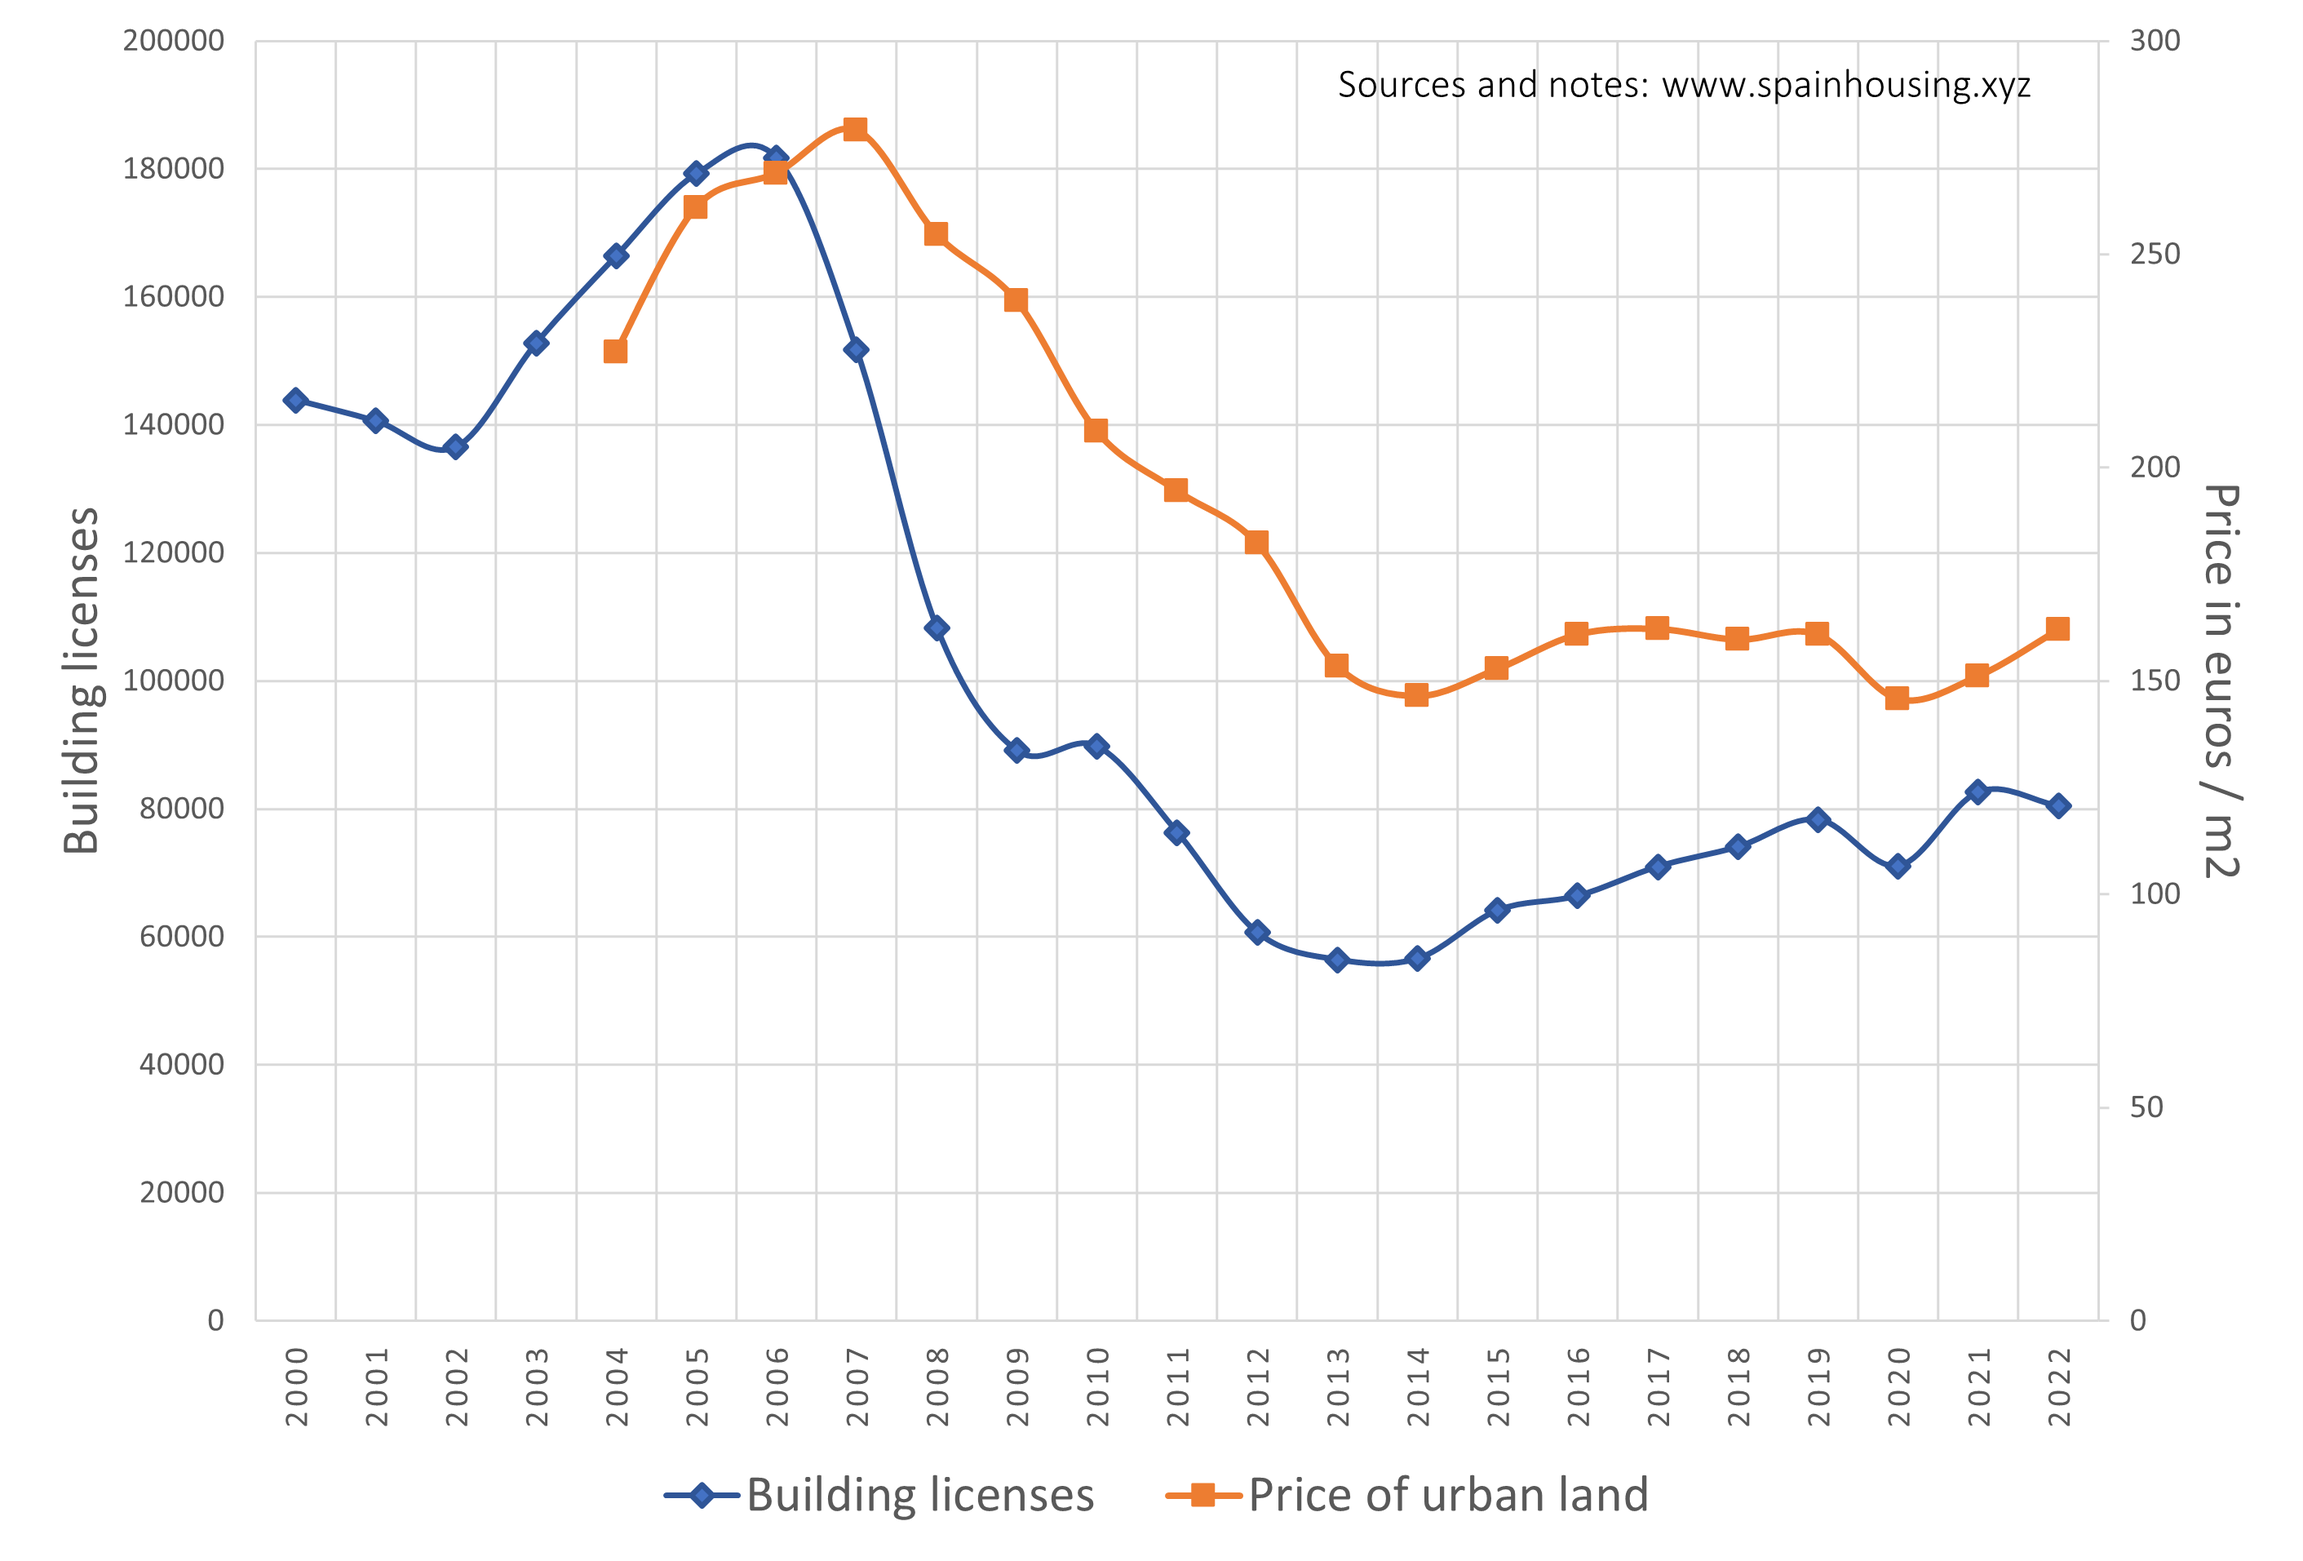
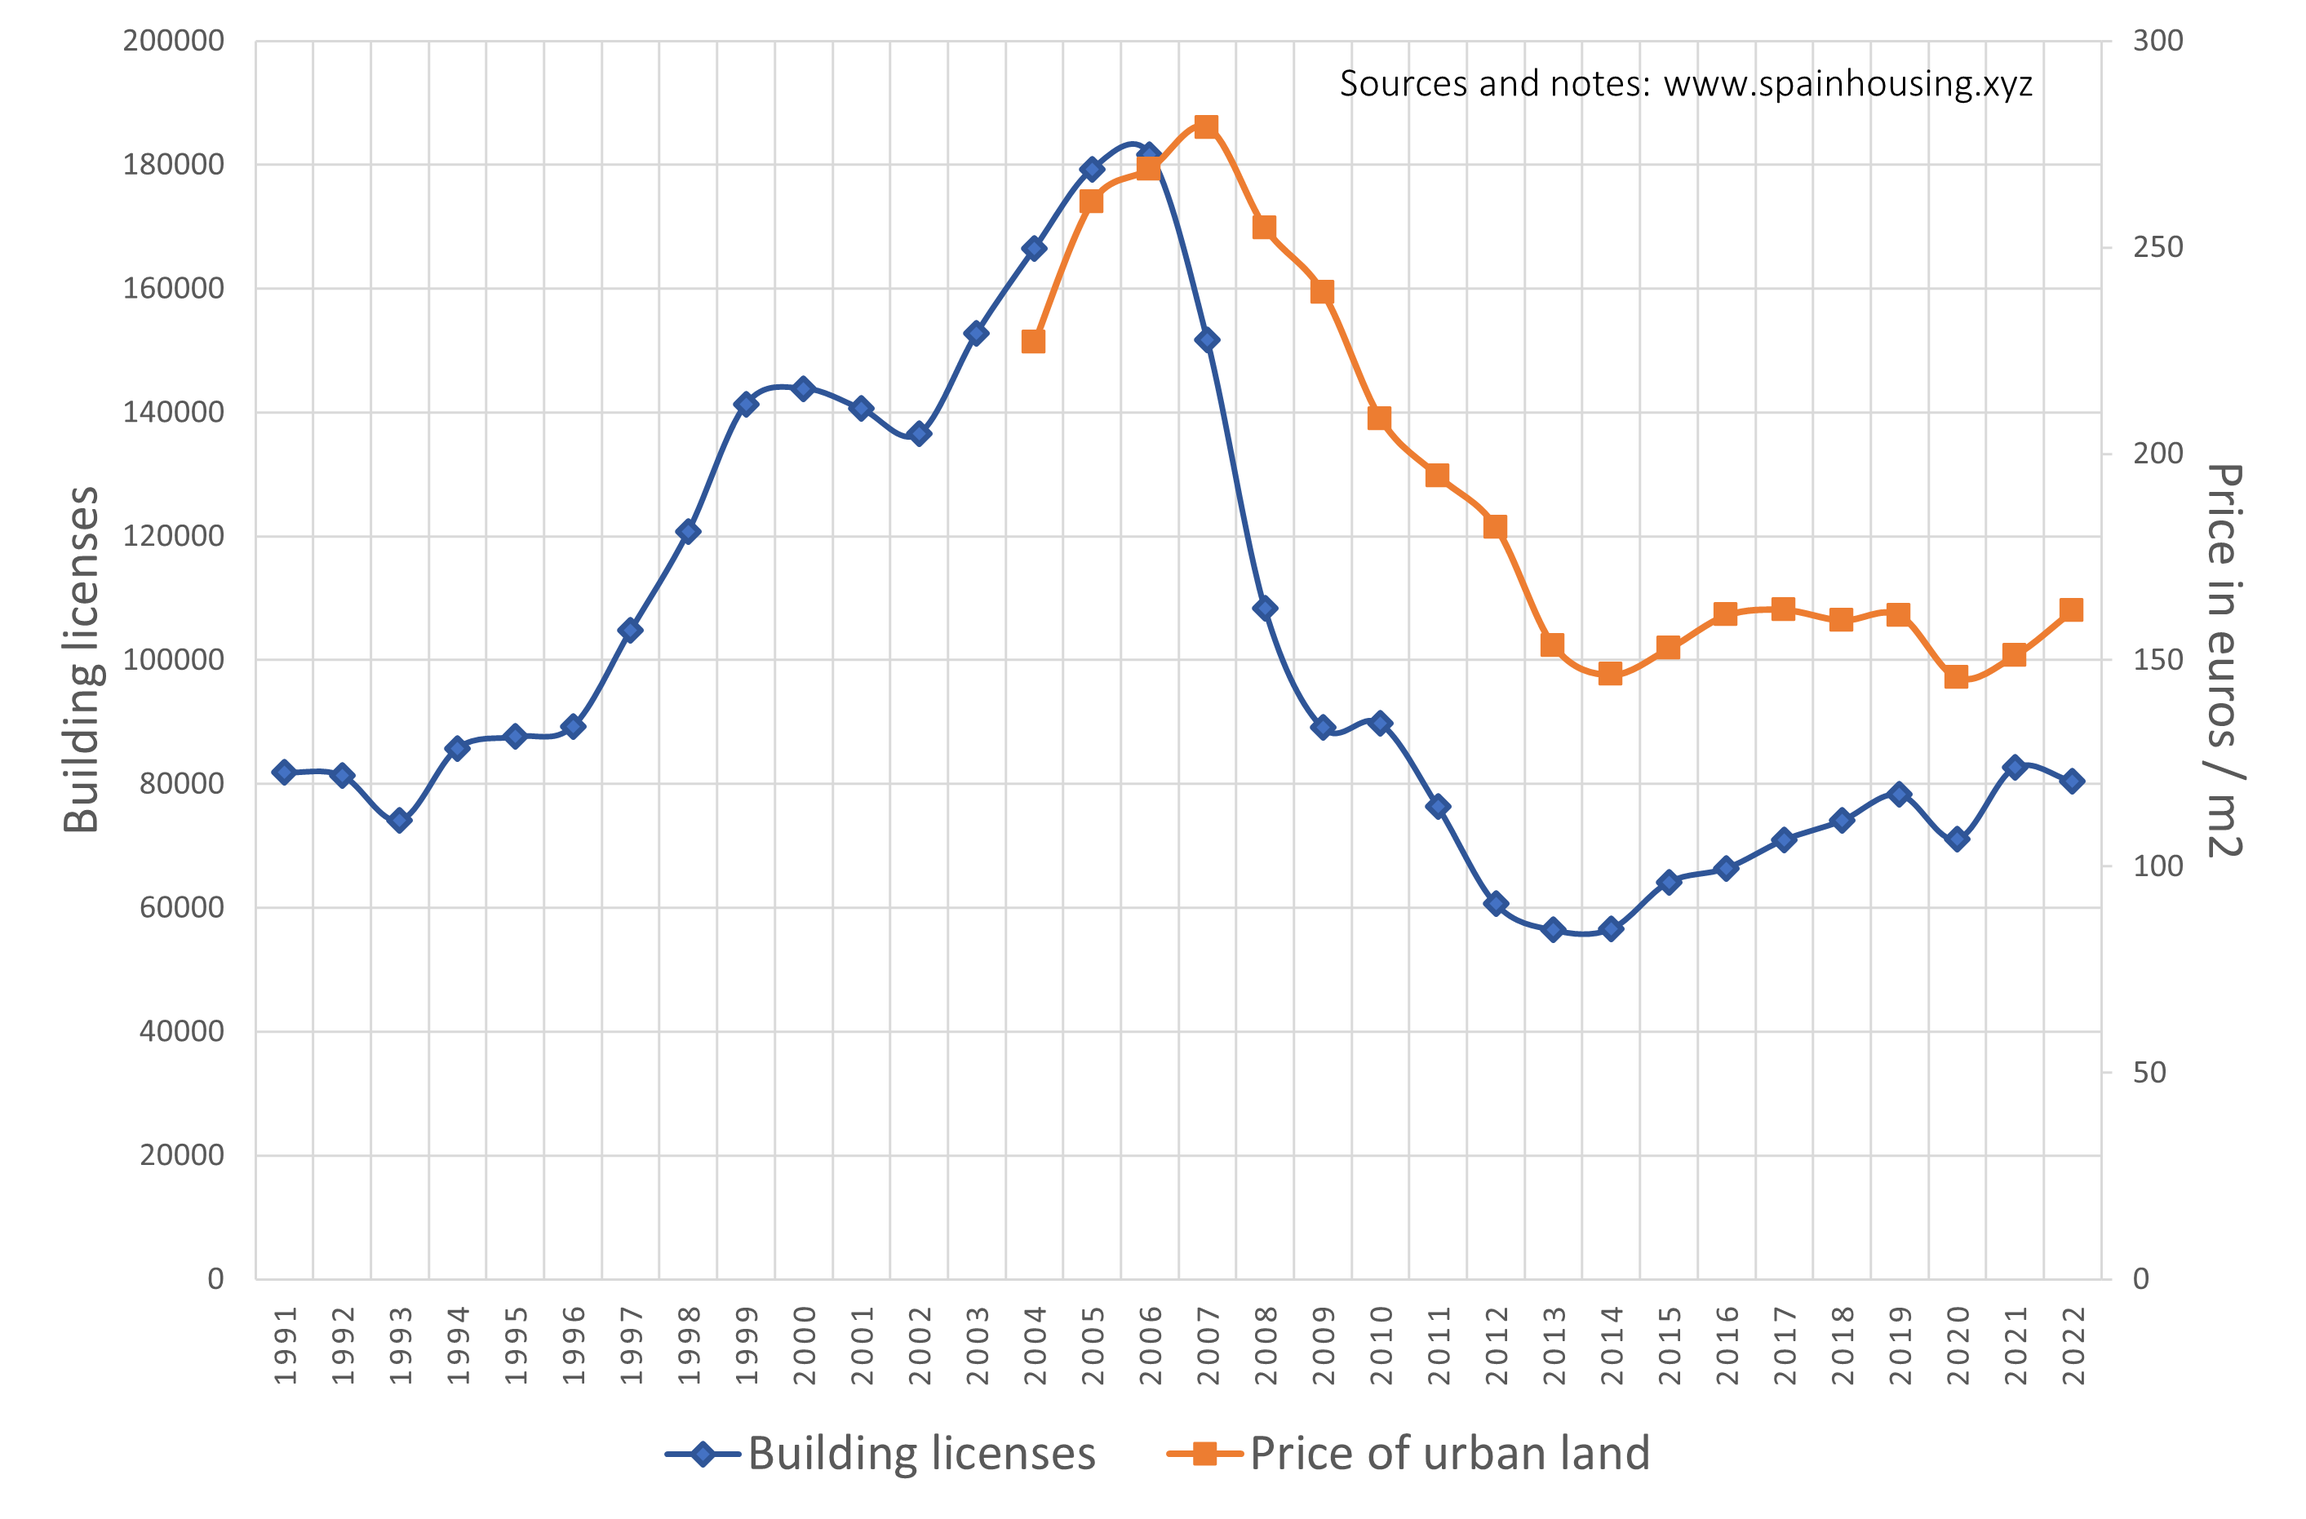
update

diff --git a/pages/posts/permits.md b/pages/posts/permits.md
@@ -21,16 +21,15 @@ import Image from 'next/image'
 
 # Interpretation and observations
 
-The charts from above show the number of annual building licenses (and the type of permit), as well as the price of land in Spain per square meter. Thus, we can see if the number of licenses and the price of land is decreasing or increasing. Some observations:
+The charts from above show the number of annual building licenses (and the type of permit), as well as the price of land in Spain per square meter. Some observations:
 
 - **Observation A**: The price of land in Spain stagnated from 2013 to 2021.
-- **Observation B**: The number of building licenses crashed deeply between 2006 and 2013, going from 180,000 licenses to 60,000 licenses.
+- **Observation B**: The number of building licenses expanded massively in the 1990s for then crashing in a similar fashion in the 2010s.
 - **Observation C**: Since 2008, the number of licenses for renovations is higher than the number of licenses for new constructions.
 
 # Data sources
 
-- Construction and Building Permits (I, "_Visados de dirección de obra. Nº visados según tipo de obra_): [Link](https://www.fomento.gob.es/BE/?nivel=2&orden=09000000)
-- Construction and Building Permits (II): [Link](https://apps.fomento.gob.es/BoletinOnline/?nivel=2&orden=10000000)
-- Price of land: [Link](https://www.mitma.gob.es/el-ministerio/informacion-estadistica/vivienda-y-actuaciones-urbanas/estadisticas/suelo/estadisticas-de-precios-de-suelo-urbano)
+- Construction and Building Permits (_Visados de dirección de obra. Nº visados según tipo de obra_): [Link](https://www.fomento.gob.es/BE/?nivel=2&orden=09000000), [Link 2, not used, but different source](https://apps.fomento.gob.es/BoletinOnline/?nivel=2&orden=10000000)
+- Price of land (_Series estadísticas > Precios del suelo > Precio medio del metro cuadrado de suelo urbano por comunidades autónomas y provincias_): [Link](https://www.mitma.gob.es/el-ministerio/informacion-estadistica/vivienda-y-actuaciones-urbanas/estadisticas/suelo/estadisticas-de-precios-de-suelo-urbano)
 
 <div class="meta-line"><a class="meta-back" href="/">← Back to Home Page</a></div>

diff --git a/pages/posts/wages.md b/pages/posts/wages.md
@@ -34,7 +34,11 @@ The first chart from above shows the housing cycles by looking at wages. In this
 # Data sources
 
 - Household disposable income (_Saldos contables > Hogares e Instituciones > Renta disponible neta_): [Link](https://www.ine.es/jaxiT3/Tabla.htm?t=30906)
-- Household savings: [Link](https://www.ine.es/jaxiT3/Tabla.htm?t=30906)
-- Mortgages: [Link](https://www.ine.es/dyngs/INEbase/es/operacion.htm?c=Estadistica_C&cid=1254736170236&menu=resultados&idp=1254735576757#!tabs-1254736158259)
+- Household savings (_Saldos contables > Hogares e Instituciones > Ahorro neto_):: [Link](https://www.ine.es/jaxiT3/Tabla.htm?t=30906)
+- Mortgages (_Results > Annual > National results and by Autonomous Community > Mortgages constituted, over the total properties, by nature of the property > Dwellings_): [Link](https://www.ine.es/dyngs/INEbase/en/operacion.htm?c=Estadistica_C&cid=1254736170236&menu=resultados&idp=1254735576757#!tabs-1254736169948)
+- Population according to INE (_range of used population was that over 18 years old_): [Population consolidated](https://www.ine.es/dyngs/INEbase/en/operacion.htm?c=Estadistica_C&cid=1254736176951&menu=resultados&idp=1254735572981)
+- Housing prices, from 1986 to 2006, according to Sociedad de Tasación (_Access to data is under request, but can be seen in the linked publication_): [Publication](https://www.st-tasacion.es/ext/pdf/estudios/sep19/2-Evolucion_de_Precios_de_Vivienda.pdf), [Link](https://www.st-tasacion.es/informe-de-tendencias-digital/)
+- Housing prices, from 2007 onwards, according to the notaries (_Grupo 5 > Acto 501 - Compraventa inmuebles > Inmuebles en fincas urbanas, viviendas_): [Link](http://www.notariado.org/liferay/web/cien/estadisticas-al-completo)
+- Inflation data (_Table: average inflation Spain (CPI) - by year_): [Link](https://www.inflation.eu/en/inflation-rates/spain/historic-inflation/cpi-inflation-spain.aspx)
 
 <div class="meta-line"><a class="meta-back" href="/">← Back to Home Page</a></div>
